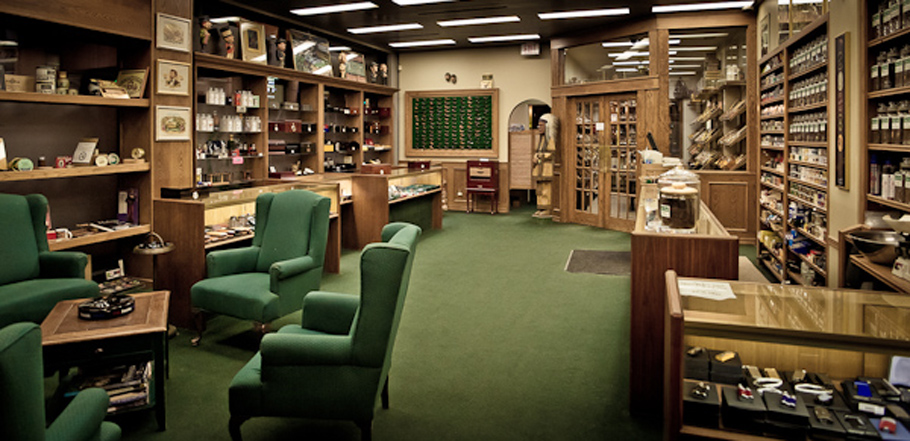
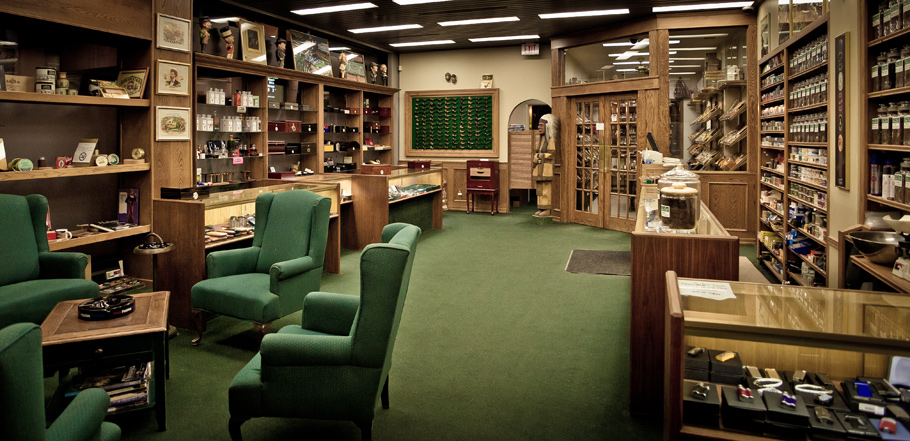
replaced w high-res photos

diff --git a/contact-us.html b/contact-us.html
@@ -40,12 +40,11 @@
             </div>
             <div class="box-message-form">
               <div class="box-header">Send Us a Message</div>
-              <div class="box-content">
+              <div class="box-content clearfix">
                 <div id="mailform-container">
                    <div id="mailform-complete" style="display:none;">
                      <h2>Thank you, your message has been successfully sent</h2>
                    </div>
-                    <small>All fields marked with an * must be completed</small>
             	      <form data-mailform="99925f3d9360008161629fbfbc15f71bb72d65ee" id="mailform" data-mailform-error="error-messages" method="get"  novalidate='true'> 
                      <div id="message-wrapper">
                        <div class="hidden mailform-loading">
@@ -78,7 +77,10 @@
                          <label for="message">Message</label> 
                          <textarea name="comments"></textarea>
                        </div>
-                     </div> 
+                     </div>
+                     <div class="required-message">
+                       <small>All fields marked with an * must be completed</small> 
+                     </div>
                      <div class="actions"> 
                        <input class="input-button" type="submit" value="submit"></input>
                        <!-- <a href="#"class="input-button">reset</a> -->
@@ -95,10 +97,10 @@
                                 <iframe width="432" height="242" frameborder="0" scrolling="no" marginheight="0" marginwidth="0" src="http://maps.google.ca/maps?q=185+Carlton+Street+&amp;hl=en&amp;sll=49.849693,-97.11122&amp;sspn=0.007983,0.01929&amp;t=h&amp;ie=UTF8&amp;hq=&amp;hnear=185+Carlton+St,+Winnipeg,+Division+No.+11,+Manitoba+R3C+3J3&amp;ll=49.889658,-97.144117&amp;spn=0.013382,0.036993&amp;z=14&amp;output=embed"></iframe>
                                 <div itemscope itemtype="http://schema.org/LocalBusiness">
                                   <div itemprop="address" itemscope itemtype="http://schema.org/PostalAddress">
-                                    <span itemprop="streetAddress"><p><a href ="http://maps.google.ca/maps?q=185+Carlton+Street+&hl=en&ll=49.889634,-97.144091&spn=0.001994,0.004823&sll=49.849693,-97.11122&sspn=0.007983,0.01929&t=h&z=18&iwloc=r6" target ="_blank">185 Carlton Street, Winnipeg MB  R3C 3J1</a></p></span>
+                                    <span itemprop="streetAddress"><p><span class="box-message box-details"><a href ="http://maps.google.ca/maps?q=185+Carlton+Street+&hl=en&ll=49.889634,-97.144091&spn=0.001994,0.004823&sll=49.849693,-97.11122&sspn=0.007983,0.01929&t=h&z=18&iwloc=r6" target ="_blank">185 Carlton Street, Winnipeg MB  R3C 3J1</a></span></p></span>
                                   </div>
-                                  <div itemprop="telephone"><p>Phone: (204) 942-0203</p></div>
-                                  <div itemprop="faxNumber"><p>Fax: (204) 942-5376</p></div>
+                                  <div itemprop="telephone"><p><span class="box-message box-details">Phone: (204) 942-0203</span></p></div>
+                                  <div itemprop="faxNumber"><p><span class="box-message box-details">Fax: (204) 942-5376</span></p></div>
                                 </div>
                               </span>
                             </div>

diff --git a/location.html b/location.html
@@ -37,20 +37,20 @@
             <div class="title-ribbon">
               <p class="title-ribbon-start"></p><h1 class="title-ribbon-middle">Location</h1><p class="title-ribbon-end"></p>
             </div>
-            <img src="images/interior.jpg" alt="Inside Our Location" class="interior-shot"/>
+            <img src="images/interior.jpg" alt="Inside Our Location" class="interior-shot image-shadow"/>
             <div class="box-location">
               <div class="box-header">Find Us</div>
               <div class="box-content" itemprop="address" itemscope itemtype="http://schema.org/PostalAddress">
-                <p><span class="box-message" itemprop="streetAddress"><a href ="contact-us.html">185 Carlton Street</a></span></p>
-                <p><span class="box-message" itemprop="addressLocality">Winnipeg MB  R3C 3J1</span></p>
+                <p><span class="box-message box-details" itemprop="streetAddress"><a href ="contact-us.html">185 Carlton Street</a></span></p>
+                <p><span class="box-message box-details" itemprop="addressLocality">Winnipeg MB  R3C 3J1</span></p>
               </div>
               <div class="box-footer"></div>
             </div>
             <div class="box-location">
               <div class="box-header">Contact Us</div>
               <div class="box-content">
-                <div itemprop="telephone"><p><span class="box-message"><strong>Phone:</strong> (204) 942-0203</span></div></p>
-                <div itemprop="faxNumber"><p><span class="box-message"><strong>Fax:</strong> (204) 942-5376</span></div></p>
+                <div itemprop="telephone"><p><span class="box-message box-details"><strong>Phone:</strong> (204) 942-0203</span></div></p>
+                <div itemprop="faxNumber"><p><span class="box-message box-details"><strong>Fax:</strong> (204) 942-5376</span></div></p>
               </div>
               
               
@@ -59,10 +59,10 @@
             <div class="box-location">
               <div class="box-header">Visit Us</div>
               <div class="box-content">
-                <p><span class="box-message">Mon. to Wed. - 9AM to 6PM</span></p>
-                <p><span class="box-message">Thurs. and Fri. - 9AM to 8PM</span></p>
-                <p><span class="box-message">Sat. - 10AM to 6PM</span></p>
-                <p><span class="box-message">Sun. - Closed</span></p>
+                <p><span class="box-message box-details">Mon. to Wed. - 9AM to 6PM</span></p>
+                <p><span class="box-message box-details">Thurs. and Fri. - 9AM to 8PM</span></p>
+                <p><span class="box-message box-details">Sat. - 10AM to 6PM</span></p>
+                <p><span class="box-message box-details">Sun. - Closed</span></p>
               </div>
               <div class="box-footer"></div>
             </div>

diff --git a/css/mailform.css b/css/mailform.css
@@ -1,36 +1,3 @@
-/*#mailform-container {
-  width:278px;
-  float:right;
-  margin:0 auto;
-  background:rgb(96,102,75);
-  background:rgba(255,255,255,.25);
-  padding:55px 25px 25px;
-  -webkit-border-radius: 5px;
-  -moz-border-radius: 5px;
-  border-radius: 5px;
-  -moz-box-shadow: 0 2px 9px rgba(12, 14, 3, 0.4);
-  position:relative;
-}
-
-#mailform-container h1 {
-  position:absolute;
-  top:0;
-  left:0;
-  width:288px;
-  height:22px;
-  font-size:1.6em;
-  border-bottom:1px solid rgb(195,168,139);
-  border-bottom:1px solid rgb(195,168,139);
-  padding:8px 20px;
-  color:rgb(79,64,50);
-  text-shadow:0 1px 2px rgb(195,168,139);
- -webkit-border-top-left-radius: 5px;
-  -moz-border-radius-topleft: 5px;
-  -moz-border-radius-topright: 5px;
-  border-radius: 5px;
-  background: url(../images/header_bkg_tile.jpg) repeat-x;
-}*/
-
 #mailform-container .message-error {
   float:right;
   color:red;
@@ -56,6 +23,11 @@
   font-family:news-gothic-std, sans-serif;
   margin:0 auto;
   color:#f4f7ea;
+}
+
+#mailform-container .required-message {
+  width:144px;
+  float:left;
 }
 
 #mailform-container .input{

diff --git a/css/style.css b/css/style.css
@@ -413,10 +413,6 @@ div.main #specials img {
   float:right;
 }
 
-.box-images img{
-  border:1px solid #fff;
- }
-
 .box-message-form {
   width:330px;
   float:right;
@@ -438,6 +434,10 @@ div.main #specials img {
 .box-location {
   width:270px;
   float:left;
+}
+
+.box-details {
+  font-size:1.2em;
 }
 
 div.products-listing {
@@ -554,7 +554,7 @@ div.main h3, div.main h4 {
 }
 
 .interior-shot {
-  border:1px solid #fff;
+/*  border:1px solid #fff;*/
   margin-bottom:25px;
 }
 
@@ -589,7 +589,11 @@ p.title-ribbon-end{
   background: url(../images/title-ribbon-end.png) 0 0;
 }
 
-
+.image-shadow {
+  -moz-box-shadow: 2px 2px 3px #000;
+  -webkit-box-shadow: 2px 2px 3px #000;
+  box-shadow: 2px 2px 3px #000;
+}
 
 /* FOOTER RULES */
 #footer{

diff --git a/products.html b/products.html
@@ -38,9 +38,9 @@
               <p class="title-ribbon-start"></p><h1 class="title-ribbon-middle">Products</h1><p class="title-ribbon-end"></p>
             </div>
             <div class="products-listing">
-              <a href ="products-cigars.html" class="cigars">Cigars</a>
-              <a href ="products-pipes.html" class="pipes">Pipes</a>
-              <a href ="products-tobacco.html" class="tobacco">Tobacco</a>
+              <a href ="products-cigars.html" class="cigars image-shadow">Cigars</a>
+              <a href ="products-pipes.html" class="pipes image-shadow">Pipes</a>
+              <a href ="products-tobacco.html" class="tobacco image-shadow">Tobacco</a>
             </div>
           </div>
         </div>

diff --git a/accessories.html b/accessories.html
@@ -37,7 +37,7 @@
             <div class="box-images">
               <div class="box-header">Come and Accessorize at Thomas Hinds</div>
               <div class="box-content">
-                <img src="images/accessories.jpg" alt="Thomas Hinds Accessories"/>
+                <img src="images/accessories.jpg" alt="Thomas Hinds Accessories" class="image-shadow"/>
               </div>
               <div class="box-footer"></div>
             </div>

diff --git a/products-tobacco.html b/products-tobacco.html
@@ -37,7 +37,7 @@
             <div class="box-images">
               <div class="box-header">Winnipeg's Foremost Selection of Tobacco</div>
               <div class="box-content">
-                <img src="images/tobacco.jpg" alt="Thomas Hinds' Tobacco"/>
+                <img src="images/tobacco.jpg" alt="Thomas Hinds' Tobacco" class="image-shadow"/>
               </div>
               <div class="box-footer"></div>
             </div>

diff --git a/products-cigars.html b/products-cigars.html
@@ -38,7 +38,7 @@
             <div class="box-images">
               <div class="box-header">Winnipeg's Best Selection of Cigars</div>
               <div class="box-content">
-                <img src="images/cigars.jpg" alt="Cigars at Thomas Hinds"/>
+                <img src="images/cigars.jpg" alt="Cigars at Thomas Hinds" class="image-shadow"/>
               </div>
               <div class="box-footer"></div>
             </div>

diff --git a/products-pipes.html b/products-pipes.html
@@ -37,7 +37,7 @@
             <div class="box-images">
               <div class="box-header">Winnipeg's Greatest Selection of Pipes</div>
               <div class="box-content">
-                <img src="images/pipes.jpg" alt="Thomas Hinds' Pipes"/>
+                <img src="images/pipes.jpg" alt="Thomas Hinds' Pipes" class="image-shadow"/>
               </div>
               <div class="box-footer"></div>
             </div>
